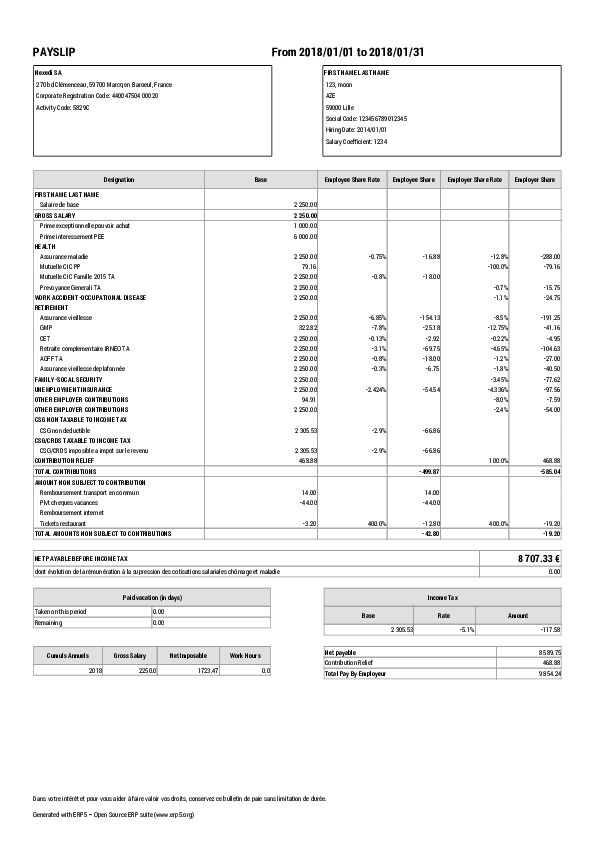
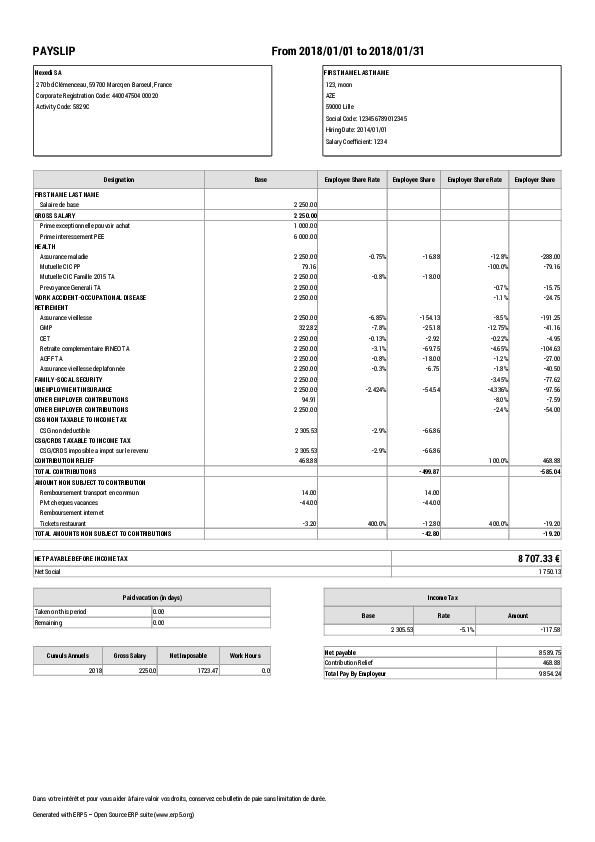
erp5_payroll_l10n_fr: display net social

diff --git a/bt5/erp5_payroll_l10n_fr/SkinTemplateItem/portal_skins/erp5_payroll_l10n_fr/PaySheetTransaction_getPayslipData.py b/bt5/erp5_payroll_l10n_fr/SkinTemplateItem/portal_skins/erp5_payroll_l10n_fr/PaySheetTransaction_getPayslipData.py
@@ -3,6 +3,7 @@ from DateTime import DateTime
 line_dict_list = context.PaySheetTransaction_getLineListAsDict()
 non_subject_amount = 'base_amount/payroll/report_section/l10n/fr/amount_non_subject_to_contribution'
 gross_category = 'base_amount/payroll/report/salary/gross'
+net_social = 'base_amount/payroll/report/salary/net_social'
 contribution_relief = 'base_amount/payroll/report_section/l10n/fr/contribution_relief'
 income_tax = 'base_amount/payroll/report_section/l10n/fr/income_tax'
 csg_crds_taxable_to_income_tax = 'base_amount/payroll/report_section/l10n/fr/csg_crds_taxable_to_income_tax'
@@ -191,6 +192,8 @@ if len(non_contribution_dict_list):
 
 gross_salary = context.PaySheetTransaction_getMovementTotalPriceFromCategory(base_contribution="base_contribution/%s"%gross_category)
 
+net_social = context.PaySheetTransaction_getMovementTotalPriceFromCategory(base_contribution="base_contribution/%s"%net_social)
+
 # Set contribution_share to 'True' so it will return all movement with 0 contribution share
 
 total_pay_by_employer = context.PaySheetTransaction_getMovementTotalPriceFromCategory(
@@ -219,12 +222,14 @@ if DateTime('2018/01/01') <= start_date <= DateTime('2018/09/30'):
 elif start_date >= DateTime('2018/10/01'):
   amount_of_remuneration_evolution = gross_salary * 0.0315 - csg_base * 0.017
 
+net_social = net_social + gross_salary + contribution_employee_total_price
 return {
   "contribution_dict_list": contribution_dict_list,
   "non_contribution_dict_list": non_contribution_dict_list,
   "gross_salary": gross_salary,
   "net_salary_before_income_tax": net_salary_before_income_tax,
   "net_salary": net_salary,
+  "net_social": net_social,
   "currency": currency,
   "amount_of_remuneration_evolution": amount_of_remuneration_evolution,
   "income_tax_dict": income_tax_dict,
